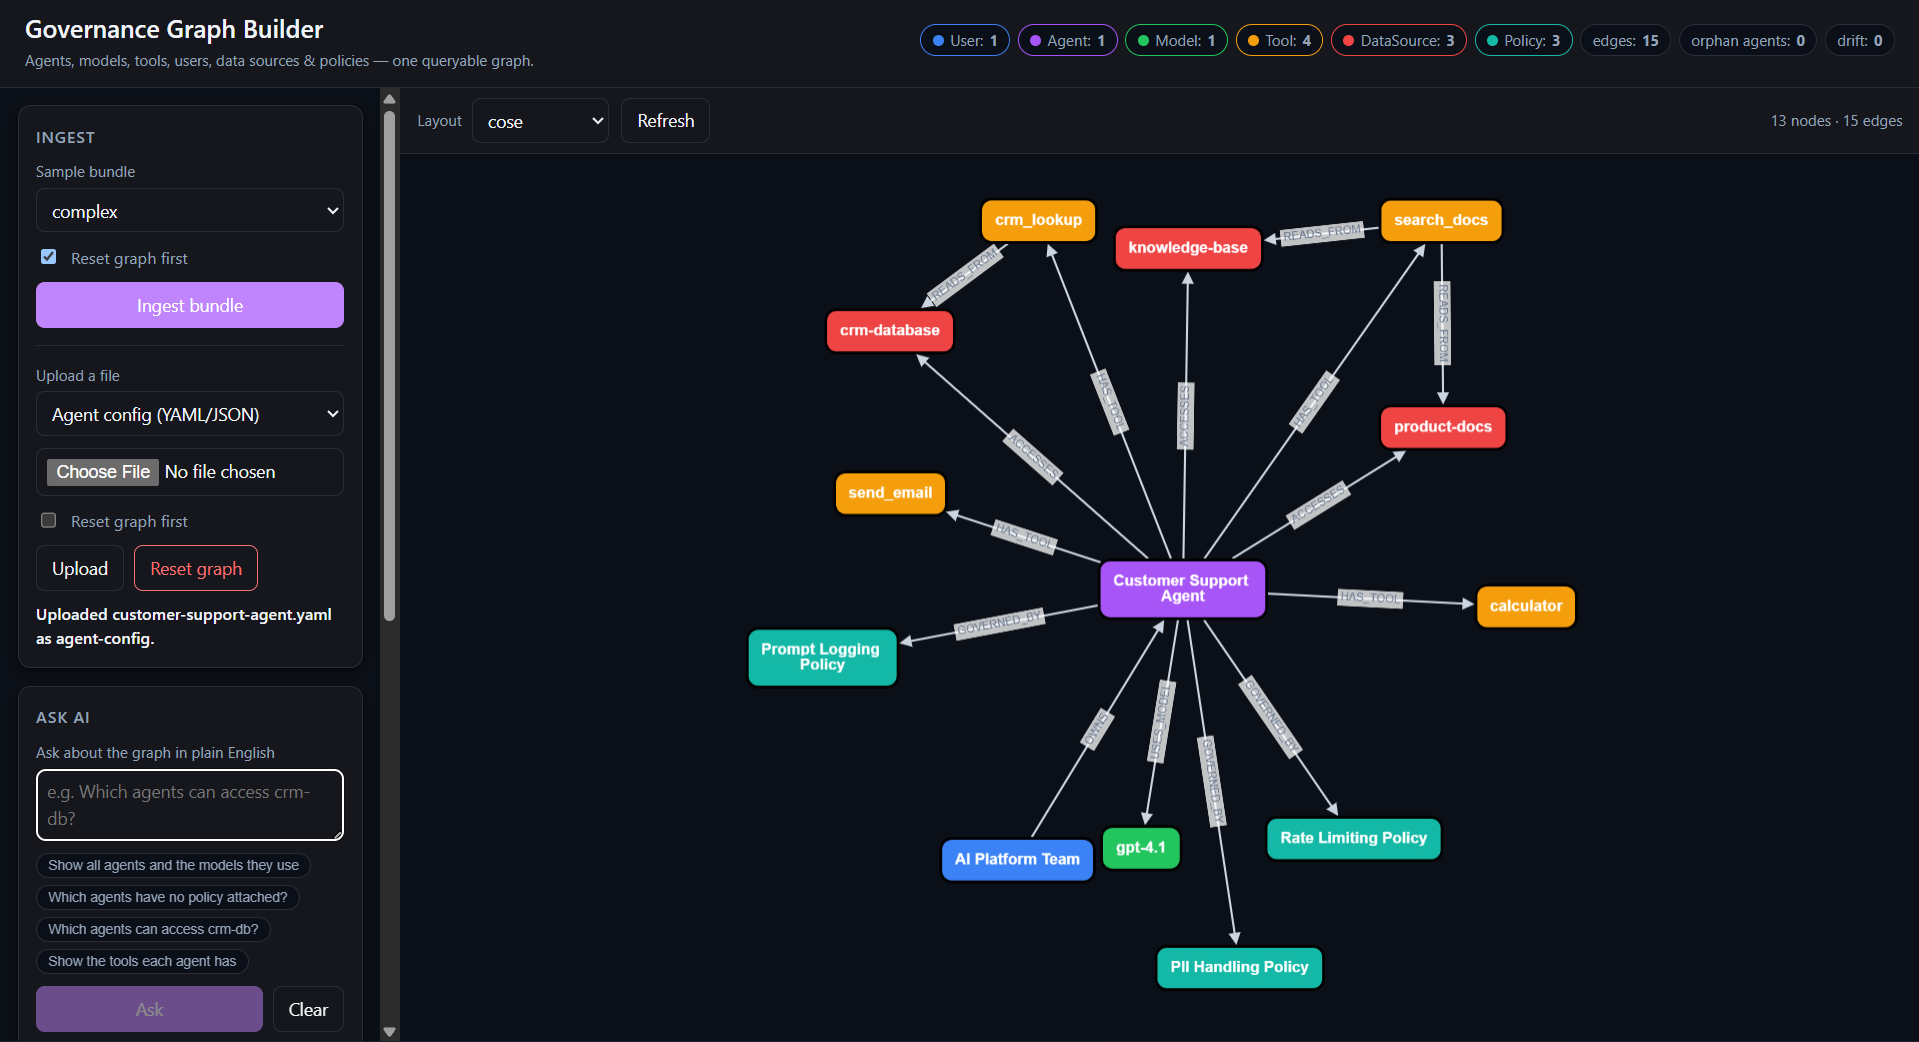
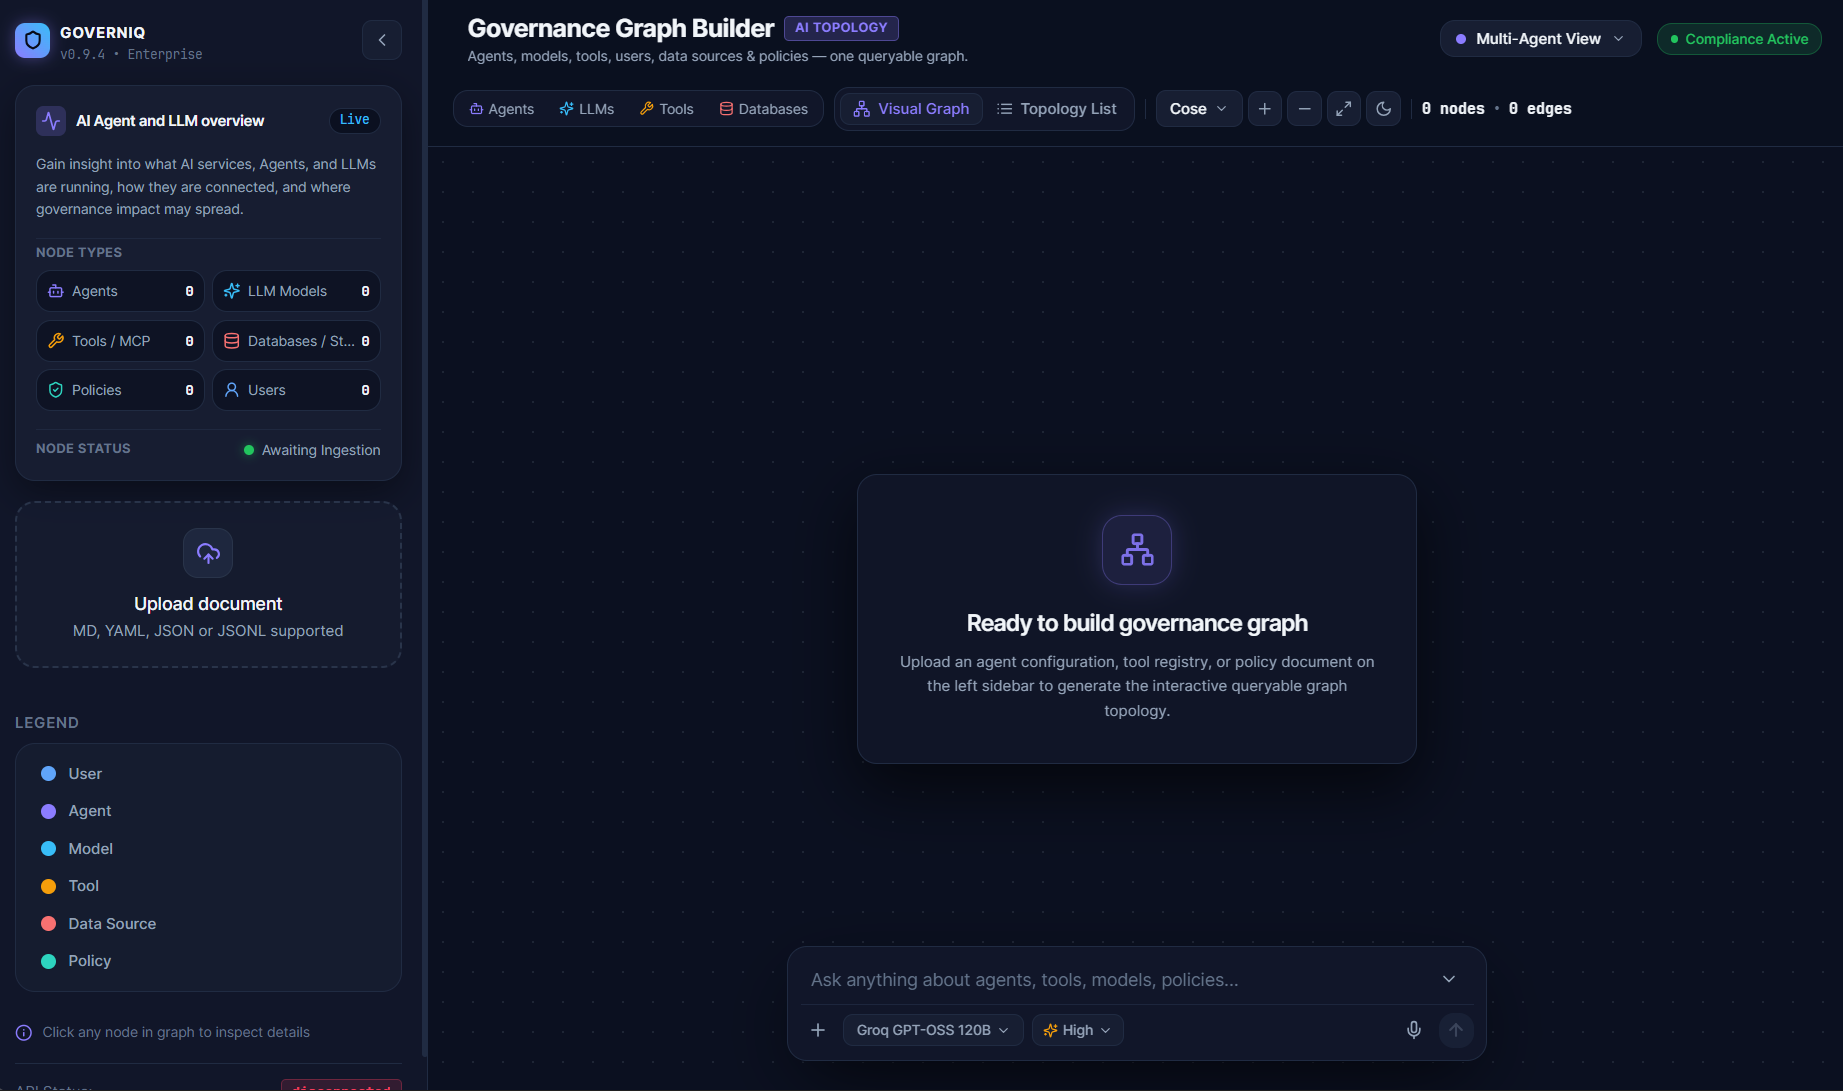
Project section updated

diff --git a/src/data/projects.ts b/src/data/projects.ts
@@ -11,6 +11,8 @@ export type Project = {
   body: string[]
   techStack: string[]
   github: string
+  /** Live deployment URL if available. */
+  deployment?: string
   /** Fills the white panel at the top of the detail card. */
   image: string
   imageAlt: string
@@ -37,46 +39,47 @@ export const projects: Project[] = [
     ],
     techStack: ['React', 'TypeScript', 'Tailwind CSS', 'Python', 'FastAPI', 'pgvector', 'PostgreSQL'],
     github: 'https://github.com/hemachandran/atlas',
-    image: './src/assets/projects/TalentMap/TalentMap.jpg',
-    imageAlt: 'TalentMap',
+    image: './src/assets/projects/TalentMap/talentmap-cover.png',
+    imageAlt: 'TalentMap - AI-powered campus recruitment platform',
     gallery: [
       { src: '/placeholder2.png', alt: 'Atlas corpus map view' },
       { src: '/placeholder3.jpg', alt: 'Atlas citation panel with source passages' },
     ],
   },
   {
-    id: 'Governance Graph Builder',
-    title: 'Governance Graph Builder',
+    id: 'GovernIQ',
+    title: 'GovernIQ',
     subtitle: 'Realtime observability · 2026',
     blurb: 'Traces, logs and metrics in one honest timeline.',
     body: [
-      'A governance graph that models agents, models, tools, users, data sources, and policies as connected nodes — making the full composition of any AI agent queryable, auditable, and visualizable in one place. Modern AI agents are compositions: an LLM, an orchestration layer, a set of tools, a memory store, and the data sources they can reach. Those pieces usually live in separate systems — the model in a registry, the tools undocumented, the data in a catalogue. When something goes wrong, no one can reconstruct what was connected to what. This project unifies those facts into a single graph and answers governance questions over it.',
+      'GovernIQ is a governance graph platform that models agents, models, tools, users, data sources, and policies as connected nodes — making the full composition of any AI agent queryable, auditable, and visualizable in one place. Modern AI agents are compositions: an LLM, an orchestration layer, a set of tools, a memory store, and the data sources they can reach. Those pieces usually live in separate systems — the model in a registry, the tools undocumented, the data in a catalogue. When something goes wrong, no one can reconstruct what was connected to what. GovernIQ unifies those facts into a single graph and answers governance questions over it.',
     ],
-    techStack: ['Python', 'FastAPI', 'Neo4j', 'React 19', 'TypeScript', 'Docker', ],
-    github: 'https://github.com/Hemachandran074/GovernanceGraphBuilder',
-    image: './src/assets/projects/GovernanceGraphBuilder/GovernanceGraphBuilder.png',
-    imageAlt: 'Abstract layered composition used as the project thumbnail',
+    techStack: ['Python', 'FastAPI', 'Neo4j', 'React 19', 'TypeScript', 'Docker'],
+    github: 'https://github.com/Hemachandran074/GovernIQ',
+    deployment: 'https://govern-iq-topaz.vercel.app/',
+    image: './src/assets/projects/GovernanceGraphBuilder/governiq-cover.png',
+    imageAlt: 'GovernIQ - AI Governance Graph Platform',
     gallery: [
-      { src: './src/assets/projects/GovernanceGraphBuilder/image1.png', alt: 'Signal unified request timeline' },
-      { src: './src/assets/projects/GovernanceGraphBuilder/image.png', alt: 'Signal trace detail with query breakdown' },
+      { src: './src/assets/projects/GovernanceGraphBuilder/image1.png', alt: 'GovernIQ unified request timeline' },
+      { src: './src/assets/projects/GovernanceGraphBuilder/image.png', alt: 'GovernIQ trace detail with query breakdown' },
     ],
   },
   {
-    id: 'loom',
-    title: 'Loom',
-    subtitle: 'Design system tooling · 2025',
-    blurb: 'Design tokens that survive the trip to production.',
+    id: 'hems',
+    title: 'HEMS',
+    subtitle: 'HR & Employee Management System · 2026',
+    blurb: 'A modern Soft SaaS dashboard managing teams, projects, and payroll.',
     body: [
-      'Loom reads a Figma library and emits typed tokens, CSS custom properties and a documentation site from one source.',
-      'The interesting part is drift detection: it diffs the published tokens against what the codebase actually uses and opens a pull request when a value moves. Teams stop hand-syncing spacing scales and start reviewing them.',
+      'HEMS is a modern, "Soft SaaS" HR and employee management dashboard built with Next.js 14, Tailwind CSS, Supabase (PostgreSQL), and Framer Motion. Designed with a clean pastel-gradient aesthetic and glassmorphic UI, it streamlines day-to-day people operations, hiring, and project tracking in one unified interface.',
+      'Core features include real-time team directories with role-based access control, interactive Kanban task and project tracking with gallery views, automated payroll calculations with visual histories, and a talent scout pipeline featuring drag-and-drop candidate management.',
     ],
-    techStack: ['Node', 'TypeScript', 'Figma API', 'Tailwind CSS', 'Vite'],
-    github: 'https://github.com/hemachandran/loom',
-    image: '/placeholder3.jpg',
-    imageAlt: 'Abstract layered composition used as the project thumbnail',
+    techStack: ['Next.js 14', 'TypeScript', 'Tailwind CSS', 'Supabase', 'PostgreSQL', 'Framer Motion', 'Recharts'],
+    github: 'https://github.com/lateshmass2-pixel/hr',
+    image: './src/assets/projects/HEMS/ProjectPlaceholder.png',
+    imageAlt: 'HEMS - HR Employee Management System dashboard preview',
     gallery: [
-      { src: '/placeholder4.png', alt: 'Loom token documentation site' },
-      { src: '/placeholder1.png', alt: 'Loom drift-detection pull request' },
+      // { src: './src/assets/projects/HEMS/ProjectPlaceholder.png', alt: 'HEMS dashboard preview' },
+      // { src: '/placeholder4.png', alt: 'HEMS candidate and project management view' },
     ],
   },
   {
@@ -90,8 +93,8 @@ export const projects: Project[] = [
     ],
     techStack: ['WebGL', 'TypeScript', 'GSAP', 'TensorFlow.js'],
     github: 'https://github.com/hemachandran/drift',
-    image: '/placeholder4.png',
-    imageAlt: 'Abstract layered composition used as the project thumbnail',
+    image: './src/assets/projects/Drift/drift-cover.png',
+    imageAlt: 'Drift - Generative interaction study',
     gallery: [
       { src: '/placeholder1.png', alt: 'Drift adaptive density study' },
       { src: '/placeholder2.png', alt: 'Drift attention heatmap overlay' },

diff --git a/src/components/ProjectCard.tsx b/src/components/ProjectCard.tsx
@@ -20,38 +20,28 @@ function ProjectCard({ project, onOpen }: ProjectCardProps) {
       type="button"
       onClick={() => onOpen(project)}
       aria-label={`Open details for ${project.title}`}
-      className="group relative flex w-full cursor-pointer flex-col overflow-hidden rounded-2xl bg-project-card text-left transition-all duration-300 hover:-translate-y-1 hover:bg-[#5a5a5a] hover:shadow-xl focus-visible:outline-2 focus-visible:outline-offset-4 focus-visible:outline-ink dark:bg-[#404040] dark:hover:bg-[#4a4a4a] dark:focus-visible:outline-on-dark"
+      className="group relative flex aspect-[4/3.5] w-full cursor-pointer overflow-hidden rounded-2xl bg-ink text-left transition-all duration-300 hover:-translate-y-1 hover:shadow-2xl focus-visible:outline-2 focus-visible:outline-offset-4 focus-visible:outline-ink dark:focus-visible:outline-on-dark"
     >
-      {/* Top media / thumbnail area with curved bottom edges */}
-      <div className="relative aspect-[4/3.5] w-full overflow-hidden rounded-2xl bg-ink">
-        <img
-          src={project.image}
-          alt={project.imageAlt || project.title}
-          loading="lazy"
-          className="size-full object-cover transition-transform duration-500 ease-out group-hover:scale-105 motion-reduce:transition-none"
-        />
+      <img
+        src={project.image}
+        alt={project.imageAlt || project.title}
+        loading="lazy"
+        className="size-full object-cover transition-transform duration-500 ease-out group-hover:scale-105 motion-reduce:transition-none"
+      />
 
-        {/* Subtle hover gradient wash */}
-        <span
-          aria-hidden="true"
-          className="absolute inset-0 bg-gradient-to-t from-ink/30 via-transparent to-transparent opacity-0 transition-opacity duration-300 group-hover:opacity-100 motion-reduce:transition-none"
-        />
-      </div>
+      {/* Subtle hover gradient wash */}
+      <span
+        aria-hidden="true"
+        className="absolute inset-0 bg-gradient-to-t from-ink/20 via-transparent to-transparent opacity-0 transition-opacity duration-300 group-hover:opacity-100 motion-reduce:transition-none"
+      />
 
-      {/* Bento footer bar with project name in font Medium */}
-      <div className="flex h-14 items-center justify-between px-5 sm:h-16 sm:px-6">
-        <span className="font-sans font-medium text-white text-base tracking-normal sm:text-lg">
-          {project.title}
-        </span>
-
-        {/* Interactive cue on hover/focus */}
-        <span
-          aria-hidden="true"
-          className="shrink-0 text-white/80 opacity-0 -translate-x-1 transition-all duration-300 group-hover:opacity-100 group-hover:translate-x-0 group-focus-visible:opacity-100 group-focus-visible:translate-x-0"
-        >
-          <ArrowUpRightIcon className="size-4.5" />
-        </span>
-      </div>
+      {/* Subtle interactive hover cue in top right */}
+      <span
+        aria-hidden="true"
+        className="absolute top-4 right-4 flex size-10 items-center justify-center rounded-full bg-black/35 text-white opacity-0 backdrop-blur-md transition-all duration-300 group-hover:opacity-100 group-focus-visible:opacity-100 sm:top-5 sm:right-5 sm:size-11"
+      >
+        <ArrowUpRightIcon className="size-4.5" />
+      </span>
     </button>
   )
 }

diff --git a/src/components/ProjectDetail.tsx b/src/components/ProjectDetail.tsx
@@ -135,15 +135,29 @@ function ProjectDetail({ project, onClose }: ProjectDetailProps) {
                   {project.subtitle}
                 </p>
 
-                <a
-                  href={project.github}
-                  target="_blank"
-                  rel="noreferrer"
-                  className="mt-3xl inline-flex min-h-[41px] items-center gap-md rounded-lg bg-ink px-2xl py-md text-button font-semibold text-on-dark transition-opacity duration-250 hover:opacity-85 motion-reduce:transition-none focus-visible:outline-2 focus-visible:outline-offset-2 focus-visible:outline-on-dark"
-                >
-                  Github
-                  <ArrowUpRightIcon />
-                </a>
+                <div className="mt-3xl flex flex-wrap gap-md">
+                  {project.deployment && (
+                    <a
+                      href={project.deployment}
+                      target="_blank"
+                      rel="noreferrer"
+                      className="inline-flex min-h-[41px] items-center gap-md rounded-lg bg-on-dark px-2xl py-md text-button font-semibold text-ink transition-opacity duration-250 hover:opacity-85 motion-reduce:transition-none focus-visible:outline-2 focus-visible:outline-offset-2 focus-visible:outline-on-dark"
+                    >
+                      Live Demo
+                      <ArrowUpRightIcon />
+                    </a>
+                  )}
+
+                  <a
+                    href={project.github}
+                    target="_blank"
+                    rel="noreferrer"
+                    className="inline-flex min-h-[41px] items-center gap-md rounded-lg bg-ink px-2xl py-md text-button font-semibold text-on-dark transition-opacity duration-250 hover:opacity-85 motion-reduce:transition-none focus-visible:outline-2 focus-visible:outline-offset-2 focus-visible:outline-on-dark"
+                  >
+                    Github
+                    <ArrowUpRightIcon />
+                  </a>
+                </div>
               </div>
 
               <div className="min-[900px]:flex-1">
